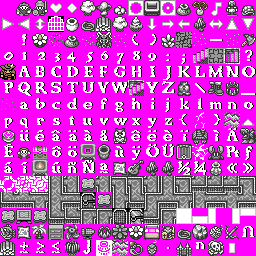
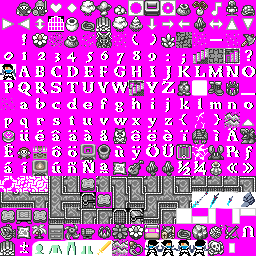
changement d'échelle, ajout de divers sprites

diff --git a/ProjetProg/RogueLike/Core/Dimensions.cs b/ProjetProg/RogueLike/Core/Dimensions.cs
@@ -5,14 +5,14 @@ namespace RogueLike.Core
     public static class Dimensions
     {
         
-        public static readonly int screenConsoleWidth = 45;
-        public static readonly int screenConsoleHeight = 25;
+        public static readonly int screenConsoleWidth = 44;
+        public static readonly int screenConsoleHeight = 24;
 
         //The w and h of every parts of the screen is computed according to the screen size.
 
 
         public static readonly int mapConsoleWidth = screenConsoleWidth;
-        public static readonly int mapConsoleHeight = (int)(0.75 * screenConsoleHeight);
+        public static readonly int mapConsoleHeight = (int)(0.70 * screenConsoleHeight);
 
 
 
@@ -21,18 +21,18 @@ namespace RogueLike.Core
 
 
         public static readonly int messageConsoleWidth = (int)(0.6 * mapConsoleWidth);
-        public static readonly int messageConsoleHeight = (int)(0.15 * screenConsoleHeight);
+        public static readonly int messageConsoleHeight = (int)(0.2 * screenConsoleHeight);
 
 
         public static readonly int statConsoleWidth = (int)(0.6 * screenConsoleWidth);
-        public static readonly int statConsoleHeight = (int)(0.1 * screenConsoleHeight);
+        public static readonly int statConsoleHeight = (int)(0.2 * screenConsoleHeight);
 
         public static readonly int equipmentsConsoleWidth = (int)(0.2 * screenConsoleWidth);
-        public static readonly int equipmentsConsoleHeight = (int)(0.25 * screenConsoleHeight);
+        public static readonly int equipmentsConsoleHeight = (int)(0.3 * screenConsoleHeight);
 
 
         public static readonly int itemsConsoleWidth = (int)(0.2 * screenConsoleWidth);
-        public static readonly int itemsConsoleHeight = (int)(0.25 * screenConsoleHeight);
+        public static readonly int itemsConsoleHeight = (int)(0.3 * screenConsoleHeight);
 
 
         

diff --git a/ProjetProg/RogueLike/View/GameScreen.cs b/ProjetProg/RogueLike/View/GameScreen.cs
@@ -114,10 +114,10 @@ namespace RogueLike.View {
                 switch (KeyPress.Key)
                 {
                     case RLKey.Escape: RootConsole.Close(); break;
-                    case RLKey.Up: DidPlayerAct = Game.CommandSystem.MovePlayer(Game.Player, Direction.Up, Game.Map); break;
-                    case RLKey.Down: DidPlayerAct = Game.CommandSystem.MovePlayer(Game.Player, Direction.Down, Game.Map); break;
-                    case RLKey.Left: DidPlayerAct = Game.CommandSystem.MovePlayer(Game.Player, Direction.Left, Game.Map); break;
-                    case RLKey.Right: DidPlayerAct = Game.CommandSystem.MovePlayer(Game.Player, Direction.Right, Game.Map); break;
+                    case RLKey.W: DidPlayerAct = Game.CommandSystem.MovePlayer(Game.Player, Direction.Up, Game.Map); break;
+                    case RLKey.S: DidPlayerAct = Game.CommandSystem.MovePlayer(Game.Player, Direction.Down, Game.Map); break;
+                    case RLKey.A: DidPlayerAct = Game.CommandSystem.MovePlayer(Game.Player, Direction.Left, Game.Map); break;
+                    case RLKey.D: DidPlayerAct = Game.CommandSystem.MovePlayer(Game.Player, Direction.Right, Game.Map); break;
                     case RLKey.LControl:
                         if (Game.Map.CanMoveToNextLevel(Game.Player))
                         {

diff --git a/ProjetProg/RogueLike/Core/Icons.cs b/ProjetProg/RogueLike/Core/Icons.cs
@@ -1,0 +1,18 @@
+using RLNET;
+
+namespace RogueLike.Core {
+    // Contains the colors used in the rogue like
+    public static class Icons {
+
+
+        // stats icons
+        public static char headStatusSymbol = 'ò';
+        public static char chestStatusSymbol = 'ó';
+        public static char legsStatusSymbol = 'ô';
+        public static char footStatusSymbol = 'õ';
+        public static char weaponStatusSymbol = 'ö';
+
+
+
+    }
+}
